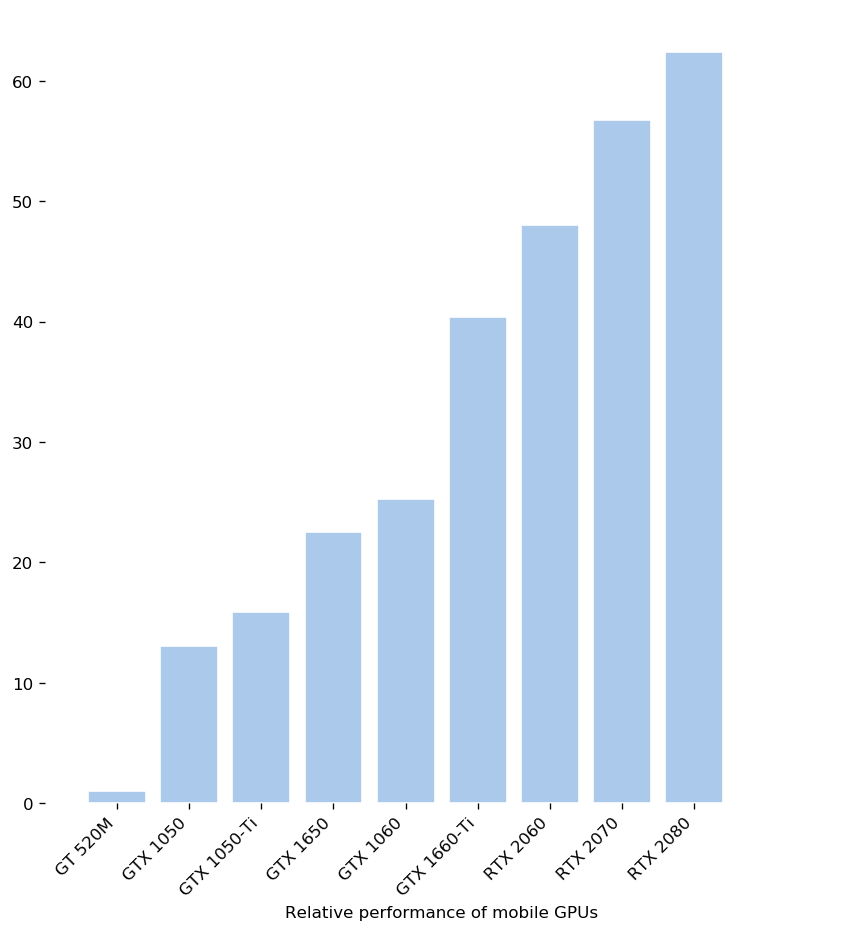
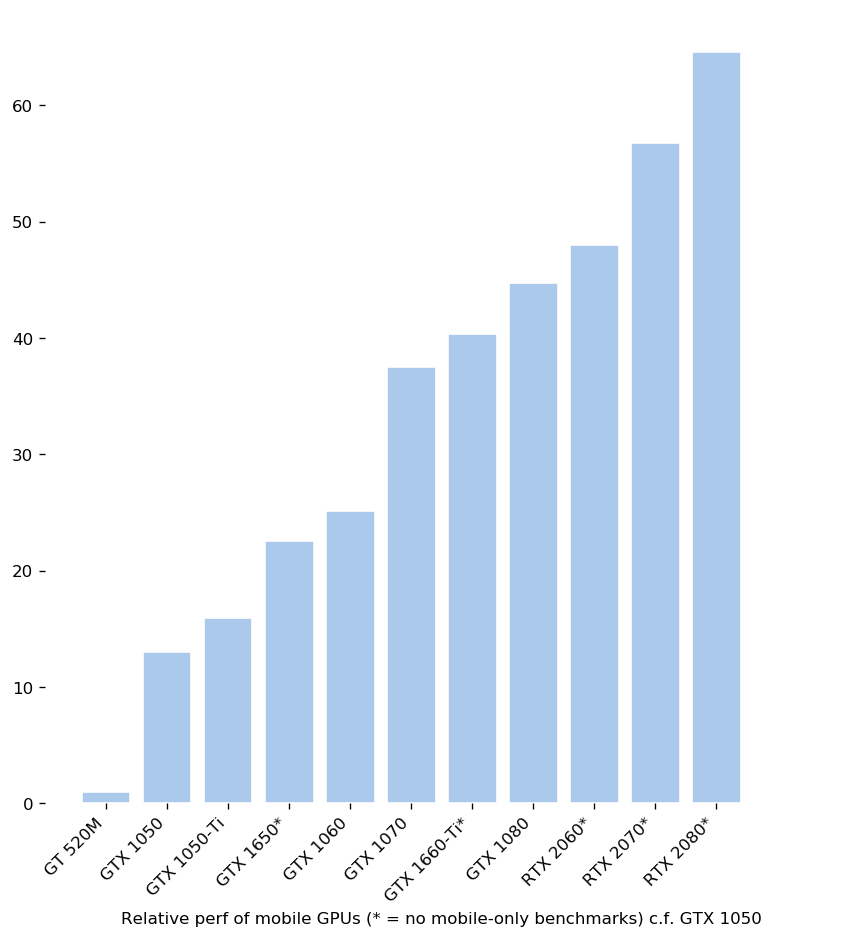
update graphs and add maxq comparison

diff --git a/generate_graph.py b/generate_graph.py
@@ -3,27 +3,73 @@ Fuck python.
 """
 
 from collections import OrderedDict
+from functools import reduce
 import importlib
+from typing import List
 
 import matplotlib
 import matplotlib.pyplot as plt
 import seaborn as sns
 
+# Values are, tuple:
+# -   relative_perf
+# -   is mobile variant
+# -   has maxq variant
 METRICS = OrderedDict(
     sorted({
-        "GT 520M":     2.26 / 29.4,
-        "GTX 1050":    1.,
-        "GTX 1050-Ti": 1.22,
-        "GTX 1650":    1.22 * 1.42,
-        "GTX 1060":    1.22 * 1.42 * 1.12,
-        "GTX 1660-Ti": 1.22 * 1.42 * 1.12 * 1.6,
-        "RTX 2060":    1.22 * 1.42 * 1.12 * 1.6 * 1.19,
-        "RTX 2070":    1.22 * 1.42 * 1.12 * 1.6 * 1.19 * 1.18,
-        "RTX 2080":    1.22 * 1.42 * 1.12 * 1.6 * 1.19 * 1.18 * 1.1,
+        "GT 520M":      (2.26 / 29.3, True,  False),
+        "GTX 1050":     (1.,          True,  False),
+        "GTX 1050-Ti":  (1.23,        True,  True),
+        "GTX 1070":     (2.89,        True,  True),
+        "GTX 1080":     (3.45,        True,  True),
+        "GTX 1650":     (1.74,        False, False),
+        "GTX 1060":     (1.94,        True,  True),
+        "GTX 1660-Ti":  (3.11,        False, False),
+        "RTX 2060":     (3.7,         False, False),
+        "RTX 2070":     (4.38,        False, True),
+        "RTX 2080":     (4.98,        False, True),
     }.items(), key=lambda x: x[1])
 )
 
-def render_graph(y, x, l, outname):
+def metrics_values(maxq_only: bool) -> List[float]:
+    return list(
+        map(
+            lambda x: x[0],
+            filter(
+                lambda v: v[2] if maxq_only else True,
+                METRICS.values()
+            )
+        )
+    )
+
+def metrics_keys(star_maxq: bool) -> List[str]:
+    return list(
+        map(
+            lambda kv: kv[0] if kv[1][1] else kv[0] + "*",
+            METRICS.items()
+        )
+    )
+
+# There are 6.  Values are provided relative to the same GTX 1050 baseline as in
+# METRICS.
+MAX_Q_METRICS = OrderedDict(
+    sorted({
+        "GTX 1050-Ti": 1.15,
+        "GTX 1060":    1.87,
+        "GTX 1070":    2.62,
+        "GTX 1080":    2.99,
+        "RTX 2070":    3.33,
+        "RTX 2080":    3.62,
+    }.items(), key=lambda x: x[1])
+)
+
+def render_graph(
+    y: List[List[float]],
+    x: List[List[str]],
+    l: List[str],
+    outname: str,
+    label: str
+):
     """Render and generate a graph, resetting the imports (side effects)."""
     importlib.reload(matplotlib)
     importlib.reload(plt)
@@ -33,37 +79,62 @@ def render_graph(y, x, l, outname):
     sns.set_color_codes("pastel")
 
     dpi = 120
-    FIG, AXIS = plt.subplots(
+    _fig, axis = plt.subplots(
         figsize=(1024. / dpi, 1024. / dpi),
         dpi=dpi,
     )
 
     plot = sns.barplot(
-        y=y,
-        x=x,
+        y=y[0],
+        x=x[0],
         label=l,
         color="b"
     )
 
     plot.set_xticklabels(plot.get_xticklabels(), rotation=45, ha="right")
 
-    AXIS.set(xlim=(-1, 10), ylabel="", xlabel="Relative performance of mobile GPUs")
+    axis.set(
+        xlim=(-1, len(x[0]) + 1),
+        ylabel="",
+        xlabel=label
+    )
     sns.despine(left=True, bottom=True)
+
+    if len(x) > 1:
+        sns.set_color_codes("muted")
+        sns.barplot(y=y[1], x=x[1], color="b")
 
     plt.savefig(outname, bbox_inches="tight")
 
 # With 520M for reference.
 render_graph(
-    list(map(lambda x: x / METRICS["GT 520M"], METRICS.values())),
-    list(METRICS.keys()),
-    list(METRICS.keys()),
-    "graph.png"
+    [list(map(lambda x: x / METRICS["GT 520M"][0], metrics_values(False)))],
+    [list(metrics_keys(True))],
+    list(metrics_keys(True)),
+    "graph.png",
+    "Relative perf of mobile GPUs (* = no mobile-only benchmarks) c.f. GTX 1050"
 )
 
 # Without the 520M for reference.
 render_graph(
-    list(METRICS.values())[1:],
-    list(METRICS.keys())[1:],
-    list(METRICS.keys())[1:],
-    "graph_no520m.png"
+    [list(metrics_values(False))[1:]],
+    [list(metrics_keys(True))[1:]],
+    list(metrics_keys(True))[1:],
+    "graph_no520m.png",
+    "Relative perf of mobile GPUs (* = no mobile-only benchmarks) c.f. 520M"
+)
+
+# Max-Q variants compared to normal (mobile where possible) variants:
+render_graph(
+    [
+        metrics_values(True),
+        list(MAX_Q_METRICS.values())
+    ],
+    [
+        list(MAX_Q_METRICS.keys()),
+        list(MAX_Q_METRICS.keys())
+    ],
+    list(MAX_Q_METRICS.keys()),
+    "graph_cf_maxq.png",
+    "Relative GPU performance, comparing Max-Q variants to normal/mobile"
 )

diff --git a/README.md b/README.md
@@ -1,2 +1,3 @@
 ![relative mobile GPU performance](graph.png)
 ![relative mobile GPU perf without 520M for reference](graph_no520m.png)
+![relative mobile GPU perf c.f. Max-Q variants](graph_cf_maxq.png)
